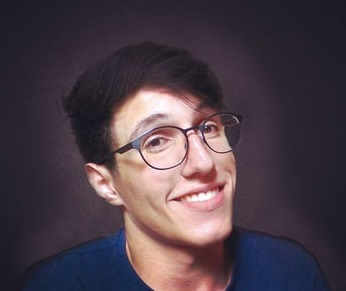
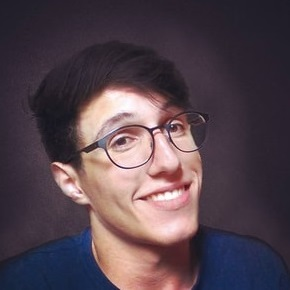
Tornar foto-perfil circular
Pequena alteração que modifica a img de perfil do aside para circular

diff --git a/gabriel-sousa/assets/css/style.css b/gabriel-sousa/assets/css/style.css
@@ -78,7 +78,7 @@ nav#menu-principal {
 	height: inherit;
 	margin: 0 auto;
 }
-	/* Style the links inside the navigation bar */
+	/* estilizar os links dentro do nav */
 	.topnav a {
 		float: left;
 		display: block;
@@ -87,12 +87,12 @@ nav#menu-principal {
 		padding: 0.8rem;
 		text-decoration: none;
 	}
-	/* Change the color of links on hover */
+	/* mudar a cor dos links ao passar por cima */
 	.topnav a:hover {
 		background-color: black;
 		color: white;
 	}
-	/* Hide the link that should open and close the topnav on small screens */
+	/* esconder o link que deverá abrir e fechar o topnav em telas pequenas */
 	.topnav .icone {
 		display: none;
 	}
@@ -121,10 +121,15 @@ aside#info-fixo {
 		margin: 2%;
 		background-color: purple;
 	}
-
-	div#sub-info-fixo h5 {
-		font-size: 0.95rem;
-		margin: 1.5rem 0;
+	/* formatação da imagem perfil circular */
+	.foto-perfil {
+		width: 70%;
+	}
+	.foto-perfil img {
+		width: 100%;
+		height: auto;
+		border-radius: 50%;
+		box-sizing: border-box;
 	}
 
 /* INTERFACE GERAL CONTEUDO */
